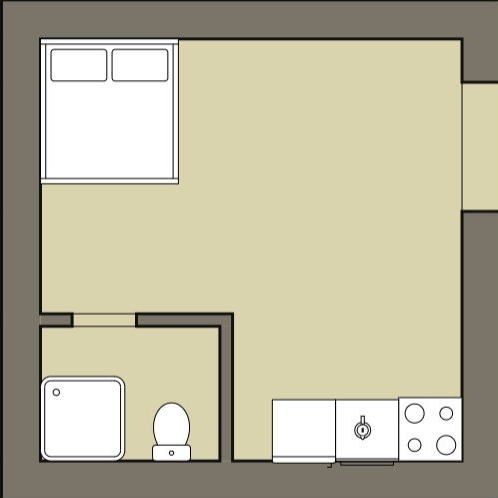
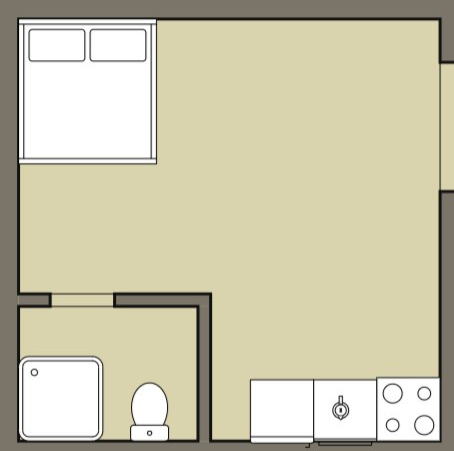
ajout de image batiment

Changed region(s): [[0.0, 0.0, 1.0, 1.0]]

diff --git a/src/gui/PaintStrategy.java b/src/gui/PaintStrategy.java
@@ -148,6 +148,28 @@ public class PaintStrategy {
 		}
 
 	}
+	public void paint(Graphics2D g2) {
+		int sizeBlock=GameConfiguration.BLOCK_SIZE;
+		g2.drawImage(GameUtility.readImage("src/images/maison1.png"),0,  5* sizeBlock, 4*sizeBlock,4*sizeBlock, null);
+		g2.drawImage(GameUtility.readImage("src/images/maison1.png"),0,  10* sizeBlock, 4*sizeBlock,4*sizeBlock, null);
+		g2.drawImage(GameUtility.readImage("src/images/maison1.png"),0,  15* sizeBlock, 4*sizeBlock,4*sizeBlock, null);
+		g2.drawImage(GameUtility.readImage("src/images/imm.png"),11*sizeBlock,  7* sizeBlock, 6*sizeBlock,5*sizeBlock, null);
+		g2.drawImage(GameUtility.readImage("src/images/piscine.png"),15*sizeBlock,0, 5*sizeBlock,4*sizeBlock, null);
+		g2.drawImage(GameUtility.readImage("src/images/boulangerie.png"),6*sizeBlock,  8* sizeBlock, 3*sizeBlock,3*sizeBlock, null);
+		g2.drawImage(GameUtility.readImage("src/images/lycee.png"),0*sizeBlock,   0*sizeBlock, 7*sizeBlock,4*sizeBlock, null);
+		g2.drawImage(GameUtility.readImage("src/images/parc.png"),6*sizeBlock,  13* sizeBlock, 7*sizeBlock,6*sizeBlock, null);
+		g2.drawImage(GameUtility.readImage("src/images/usine.png"),22*sizeBlock,  0* sizeBlock, 8*sizeBlock,4*sizeBlock, null);
+		g2.drawImage(GameUtility.readImage("src/images/mairie.png"),19*sizeBlock,  8* sizeBlock, 4*sizeBlock,4*sizeBlock, null);
+		g2.drawImage(GameUtility.readImage("src/images/cinema.png"),25*sizeBlock,  13* sizeBlock, 4*sizeBlock,6*sizeBlock, null);
+		g2.drawImage(GameUtility.readImage("src/images/salle.png"),14*sizeBlock,  15* sizeBlock, 4*sizeBlock,4*sizeBlock, null);
+		g2.drawImage(GameUtility.readImage("src/images/hopital.png"),19*sizeBlock,  14* sizeBlock, 5*sizeBlock,5*sizeBlock, null);
+		g2.drawImage(GameUtility.readImage("src/images/mall.png"),24*sizeBlock,  6* sizeBlock, 5*sizeBlock,6*sizeBlock, null);
+		
+		g2.drawImage(GameUtility.readImage("src/images/lycee.png"),8*sizeBlock,   0*sizeBlock, 6*sizeBlock,4*sizeBlock, null);
+		g2.drawImage(GameUtility.readImage("src/images/usine.png"),22*sizeBlock,  0* sizeBlock, 8*sizeBlock,4*sizeBlock, null);
+	}
+
+		
 
 //SUPRIMEEEEEEER
 	public void paint(Sim sim, Graphics graphics){

diff --git a/src/gui/GameDisplay.java b/src/gui/GameDisplay.java
@@ -52,28 +52,13 @@ public class GameDisplay extends JPanel {
 		
         
 		Graphics2D g2 = (Graphics2D) g;
-		
-		
-		
-		
-		//A REGROUPER DANS UNE METHODE A METTRE DANS PAINT STRATEGY
-		int sizeBlock=GameConfiguration.BLOCK_SIZE;
-		g2.drawImage(GameUtility.readImage("src/images/maison1.png"),0,  5* sizeBlock, 4*sizeBlock,4*sizeBlock, null);
-		g2.drawImage(GameUtility.readImage("src/images/maison1.png"),0,  10* sizeBlock, 4*sizeBlock,4*sizeBlock, null);
-		g2.drawImage(GameUtility.readImage("src/images/maison1.png"),0,  15* sizeBlock, 4*sizeBlock,4*sizeBlock, null);
-		g2.drawImage(GameUtility.readImage("src/images/imm.png"),11*sizeBlock,  7* sizeBlock, 6*sizeBlock,5*sizeBlock, null);
-		g2.drawImage(GameUtility.readImage("src/images/piscine.png"),15*sizeBlock,0, 5*sizeBlock,4*sizeBlock, null);
-		g2.drawImage(GameUtility.readImage("src/images/boulangerie.png"),6*sizeBlock,  8* sizeBlock, 3*sizeBlock,3*sizeBlock, null);
-		g2.drawImage(GameUtility.readImage("src/images/lycee.png"),0*sizeBlock,   0*sizeBlock, 7*sizeBlock,4*sizeBlock, null);
-		g2.drawImage(GameUtility.readImage("src/images/parc.png"),6*sizeBlock,  13* sizeBlock, 7*sizeBlock,6*sizeBlock, null);
-		g2.drawImage(GameUtility.readImage("src/images/usine.png"),22*sizeBlock,  0* sizeBlock, 8*sizeBlock,4*sizeBlock, null);
-		g2.drawImage(GameUtility.readImage("src/images/mairie.png"),19*sizeBlock,  8* sizeBlock, 4*sizeBlock,4*sizeBlock, null);
-		g2.drawImage(GameUtility.readImage("src/images/cinema.png"),25*sizeBlock,  13* sizeBlock, 4*sizeBlock,6*sizeBlock, null);
-		g2.drawImage(GameUtility.readImage("src/images/salle.png"),14*sizeBlock,  15* sizeBlock, 4*sizeBlock,4*sizeBlock, null);
-		//dessin des portes 
+
 		for(Batiment batiment : ville.getBatimentsList()) {
             paintStrategy.paint(batiment, g);
         }
+		
+		//dessine tout les images de batiment
+		paintStrategy.paint(g2);
 		
 		for(Sim sim : SimManager.getSims().getSims().values()){
         	paintStrategy.paint2(sim, g2);
